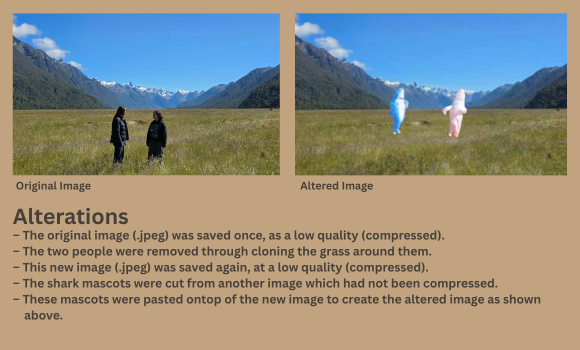
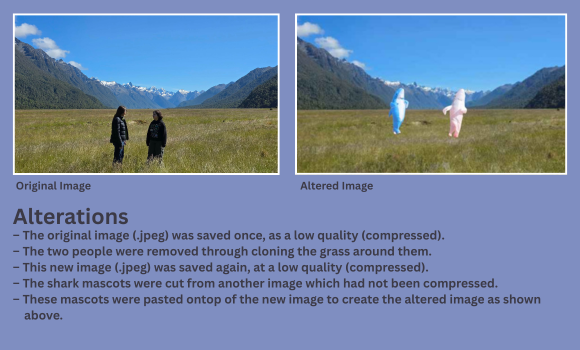
SAT - Submission

diff --git a/Code/A - CTFs/screens/case_one.py b/Code/A - CTFs/screens/case_one.py
@@ -31,7 +31,7 @@ class ChallengeScreenOne(ttk.Frame): # Inherit from ttk.Frame so this file acts 
         self.progress_repo = ChallengeProgressRepo(self.csv_path) # The repository handles saving challenge progress to the CSV
         self.evaluator = ChallengeEvaluator() # The evaluator handles answer validation and scoring
 
-        IMAGE_NAMES = ["errorLevel", "luminanceGradient", "differenceAnalysis", "imageInfo"] # Image list ??? stored as a constant as it is never modified
+        IMAGE_NAMES = ["errorLevel", "luminanceGradient", "differenceAnalysis", "imageInfo"] # Defined as a local tuple/list because they remain constant and correspond only to Case 1 tabs
         
         # Initialise an empty dictionary to store 'PhotoImage' objects and allow simplify retrieval
         self.icons = {}
@@ -56,7 +56,7 @@ class ChallengeScreenOne(ttk.Frame): # Inherit from ttk.Frame so this file acts 
 
     #----------------------------------------------------------------------------
 
-        self.title = ttk.Label(self, text="Metadata Analysis | Case 1", style="H1.TLabel", anchor='w') # change the heading to forensics cause more so image forensics than metadata now?
+        self.title = ttk.Label(self, text="Metadata Analysis | Case 1", style="H1.TLabel", anchor='w') 
         self.title.place(x=30, y=40)
 
         self.explain = ttk.Label(self, text="""The first challenges revolves around the idea of forensic analysis. This challenge features four screens which can be viewed by clicking the labels on the right, and each question will correspond primarily to the figure with the same number.\n~
@@ -88,21 +88,11 @@ Figure 1.4 ~ Additional background information.""",
 
     #----------------------------------------------------------------------------
 
-        # Create and place comboboxes to simplify interface
-        '''self.userAnswer1 = ttk.Combobox(self, style="H4.TCombobox", values=QUESTION_DATA[0]["options"], state=READONLY) # might move under each question?
-        self.userAnswer1.place(x=530, y=350, width=160, height=30)
-        self.userAnswer2 = ttk.Combobox(self, style="H4.TCombobox", values=QUESTION_DATA[1]["options"], state=READONLY)
-        self.userAnswer2.place(x=530, y=430, width=160, height=30)
-        self.userAnswer3 = ttk.Combobox(self, style="H4.TCombobox", values=QUESTION_DATA[2]["options"], state=READONLY)
-        self.userAnswer3.place(x=530, y=510, width=160, height=30)
-        self.userAnswer4 = ttk.Combobox(self, style="H4.TCombobox", values=QUESTION_DATA[3]["options"], state=READONLY)
-        self.userAnswer4.place(x=530, y=590, width=160, height=30)'''
-
         # Create a submission button
-        self.submit_button = ttk.Button(self, text="Submit", style="H6.TButton", command=self.on_submit_click) #Link the submit_button to the relevant command
+        self.submit_button = ttk.Button(self, text="Submit", style="H6.TButton", command=self.on_submit_click)
         self.submit_button.place(x=910, y=590, width=220, height=52)
 
-        self.home_button = ttk.Button(self, text="Home", style="H6.TButton", command=self.go_home)
+        self.home_button = ttk.Button(self, text="Home", style="H6.TButton", command=self.go_home) # Can change 'Home' to 🏡 for future development
         self.home_button.place(x=1190, y=30, width=80, height=45) 
 
     #----------------------------------------------------------------------------
@@ -137,7 +127,7 @@ Figure 1.4 ~ Additional background information.""",
     #----------------------------------------------------------------------------
 
     def on_submit_click(self): # Fetch the active username and fall back to "Guest" if None
-        #print("Submit button clicked!") # From testing
+        # print("Submit button clicked!") #  Debugging statement from testing
         current_username = self.app.get_current_username()
 
         user_selections = {
@@ -152,7 +142,7 @@ Figure 1.4 ~ Additional background information.""",
             return
 
         results = self.evaluator.evaluate_answers(user_selections)
-        #print(results) # testing
+        # print(results) # Debugging statement from testing
         if current_username is not None:
             self.progress_repo.save_progress( # Save successful or unsuccessful progress through the repo
                         username=current_username,  

diff --git a/Code/A - CTFs/app.py b/Code/A - CTFs/app.py
@@ -38,21 +38,21 @@ class App(ttk.Window): # Allow the main application controller to inherit direct
     def setup_custom_theme(self): # Configure the app's colours, fonts and widget styles application-wide
         style = ttk.Style()
         custom_colours = { # Define the shared colour palette used throughout the application as a local variable
-            'primary': '#46403A',
-            'secondary': '#D7C4AC',
+            'primary': "#3C3A46",
+            'secondary': "#ACB2D7", # Modified after Beta Testing
             'success': "#61daae", 
             'info': '#A2B9CB',
             'warning': '#f6c23e',
             'danger': '#B3261E',
             'light': '#FFF6EB',
             'dark': '#5a5c69',
-            'bg': '#C1A37F',
+            'bg': "#7F8EC1", # Modified after Beta Testing
             'fg': '#2e2f37',
             'selectbg': '#eaecf4',
             'selectfg': "#ffffff",
             'border': '#A2B9CB',
             'inputfg': '#2e2f37',
-            'inputbg': '#CAB8A2',
+            'inputbg': "#E2D9EF",
             'active': '#dddfeb'
             }
         

diff --git a/Code/A - CTFs/repos/challenge_progress_repo.py b/Code/A - CTFs/repos/challenge_progress_repo.py
@@ -15,7 +15,7 @@ class ChallengeProgressRepo: # Manage reading and writing challenge progress in 
         "timestamp",
         "currentChallenge",
         "numberCorrect",
-        "questionNumber",
+        "totalQuestions",
         "result"
         ]
 
@@ -118,7 +118,7 @@ class ChallengeProgressRepo: # Manage reading and writing challenge progress in 
                     continue
                 
                 # Normalise usernames so comparisons are not affected by capitalisation
-                existing_user = row[0].strip().lower() # maybe redundant
+                existing_user = row[0].strip().lower()
                 
                 # Replace the existing record when the user and challenge match
                 if existing_user == clean_username and row[2] == challenge_name:

diff --git a/Code/A - CTFs/screens/custom_popup.py b/Code/A - CTFs/screens/custom_popup.py
@@ -38,7 +38,7 @@ which allows different screens to use the same popup design and behaviour.
         self.confirmed = False
 
         ttk.Label(frame, text=title, style="H2-2.TLabel").pack(pady=(0, 15))
-        ttk.Label(frame, text=message, style="H4.TLabel", justify="center", wraplength=340).pack() # center or centre???
+        ttk.Label(frame, text=message, style="H4.TLabel", justify="center", wraplength=340).pack()
 
         # Create the input field when the popup is being used for username entry
         if show_input:

diff --git a/Code/A - CTFs/main.py b/Code/A - CTFs/main.py
@@ -6,7 +6,3 @@ def main(): # Create the application object and start the GUI event loop
 
 if __name__ == "__main__":
     main()
-
-# NOTES -> move username storage to app class cause screen classes should just be navigation and layout !!!
-# add ''''' before EACH class and function (not really inside, only if complicated, unusual, or ur proud of it)
-# each thing passed in should be defined as what type, and why it is that type (not the end of the world tho)

diff --git a/Code/A - CTFs/screens/home_screen.py b/Code/A - CTFs/screens/home_screen.py
@@ -79,7 +79,7 @@ to available cases.
             self.completed_cases = self.progress_repo.get_completed_cases(current_user)
         
         else:
-            self.username_var.set("Welcome to Logic Lab, Guest")
+            self.username_var.set("Welcome to the Logic Lab, Guest")
             self.auth_button_var.set("Sign In / Up")
             self.completed_cases = set()
 
